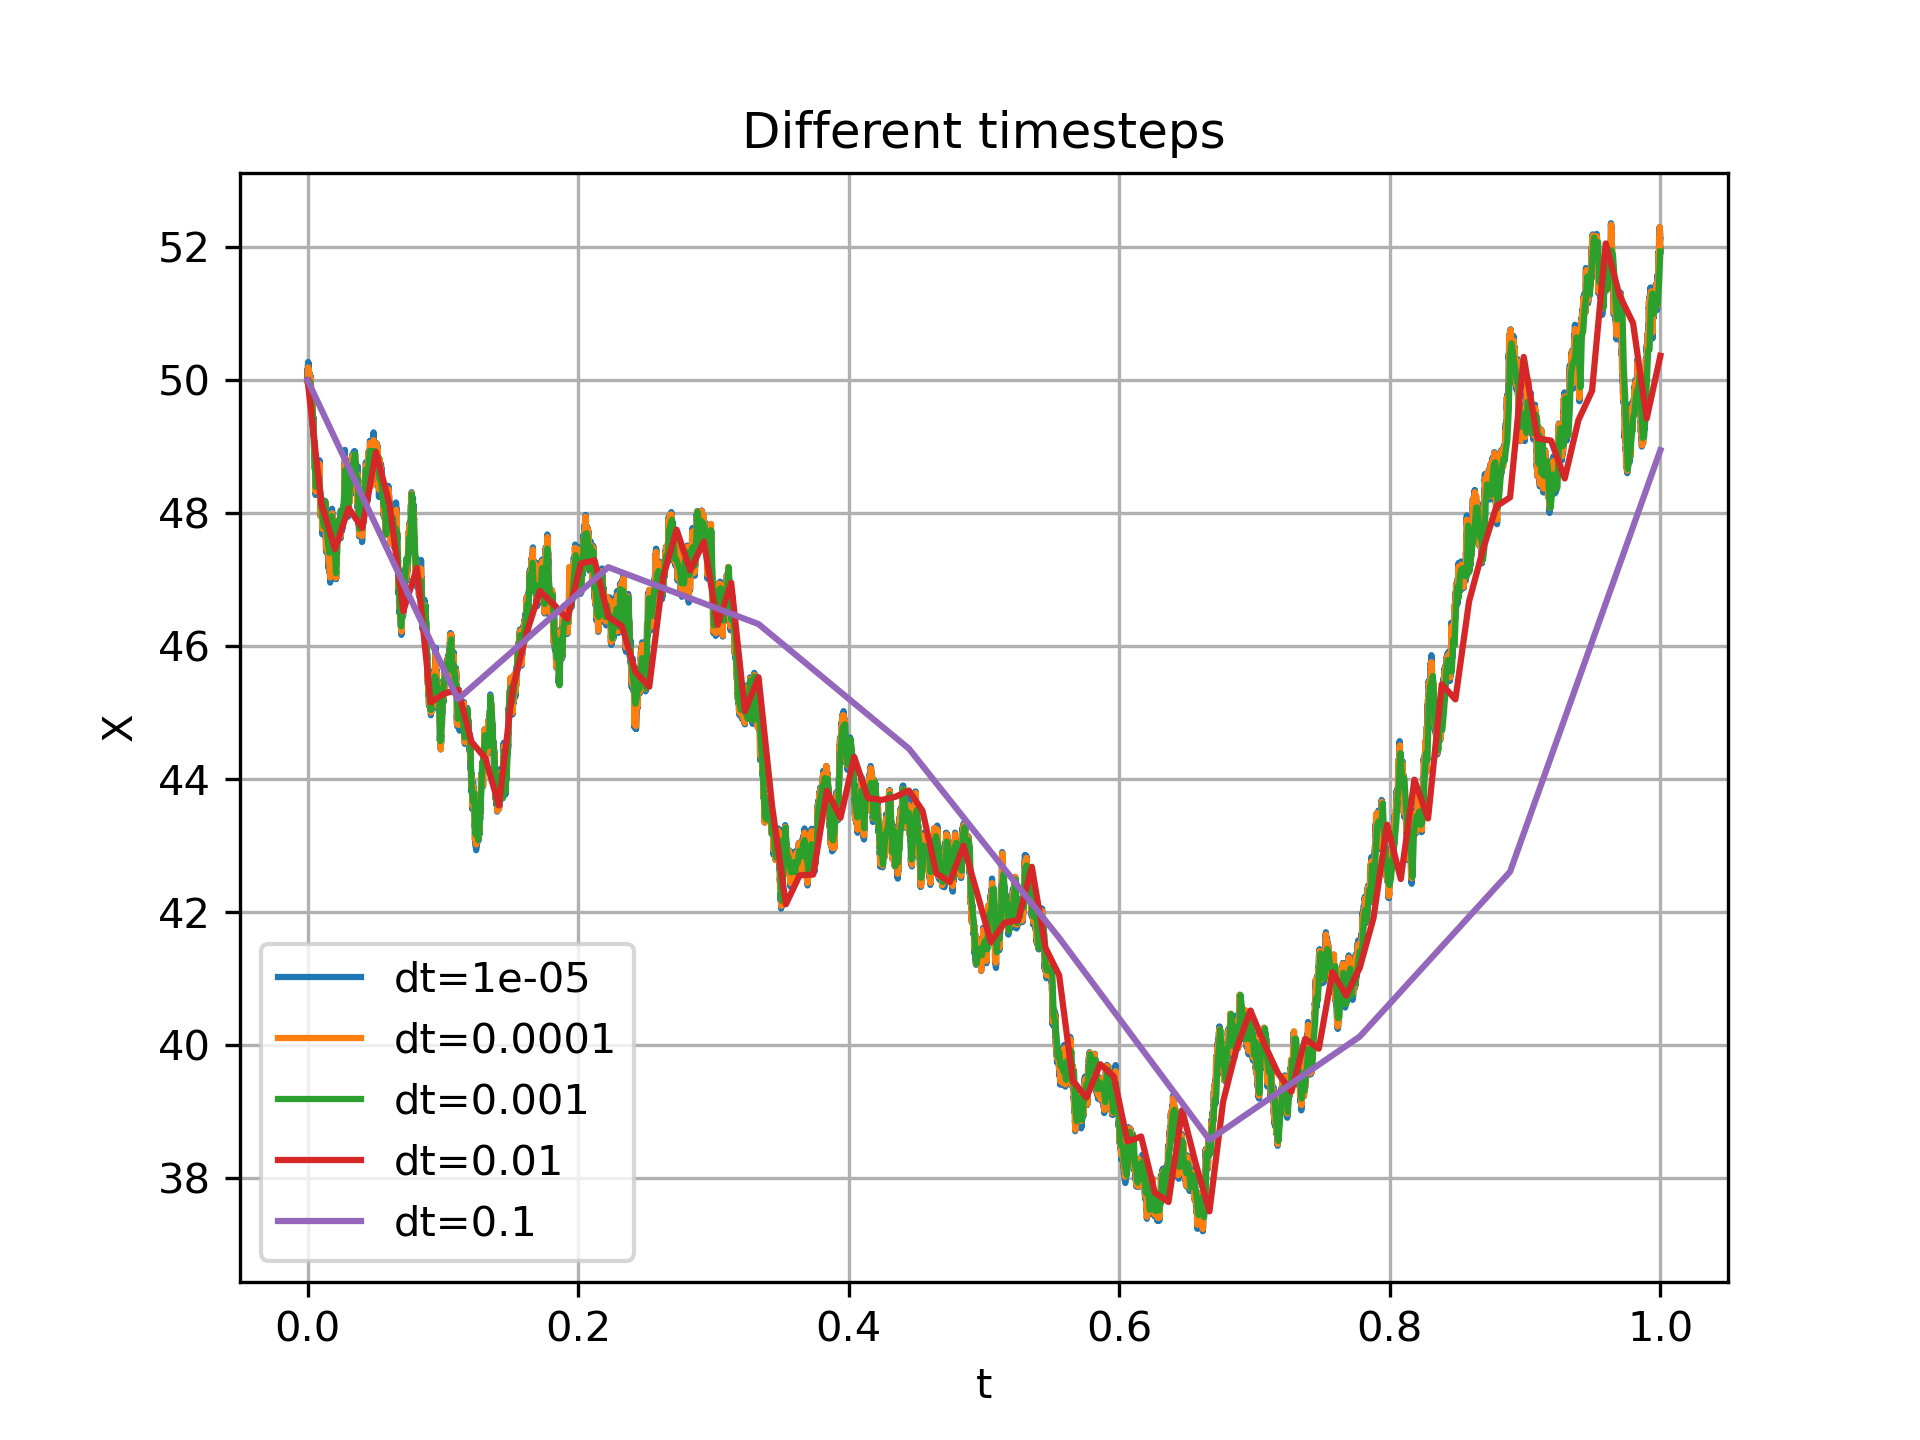
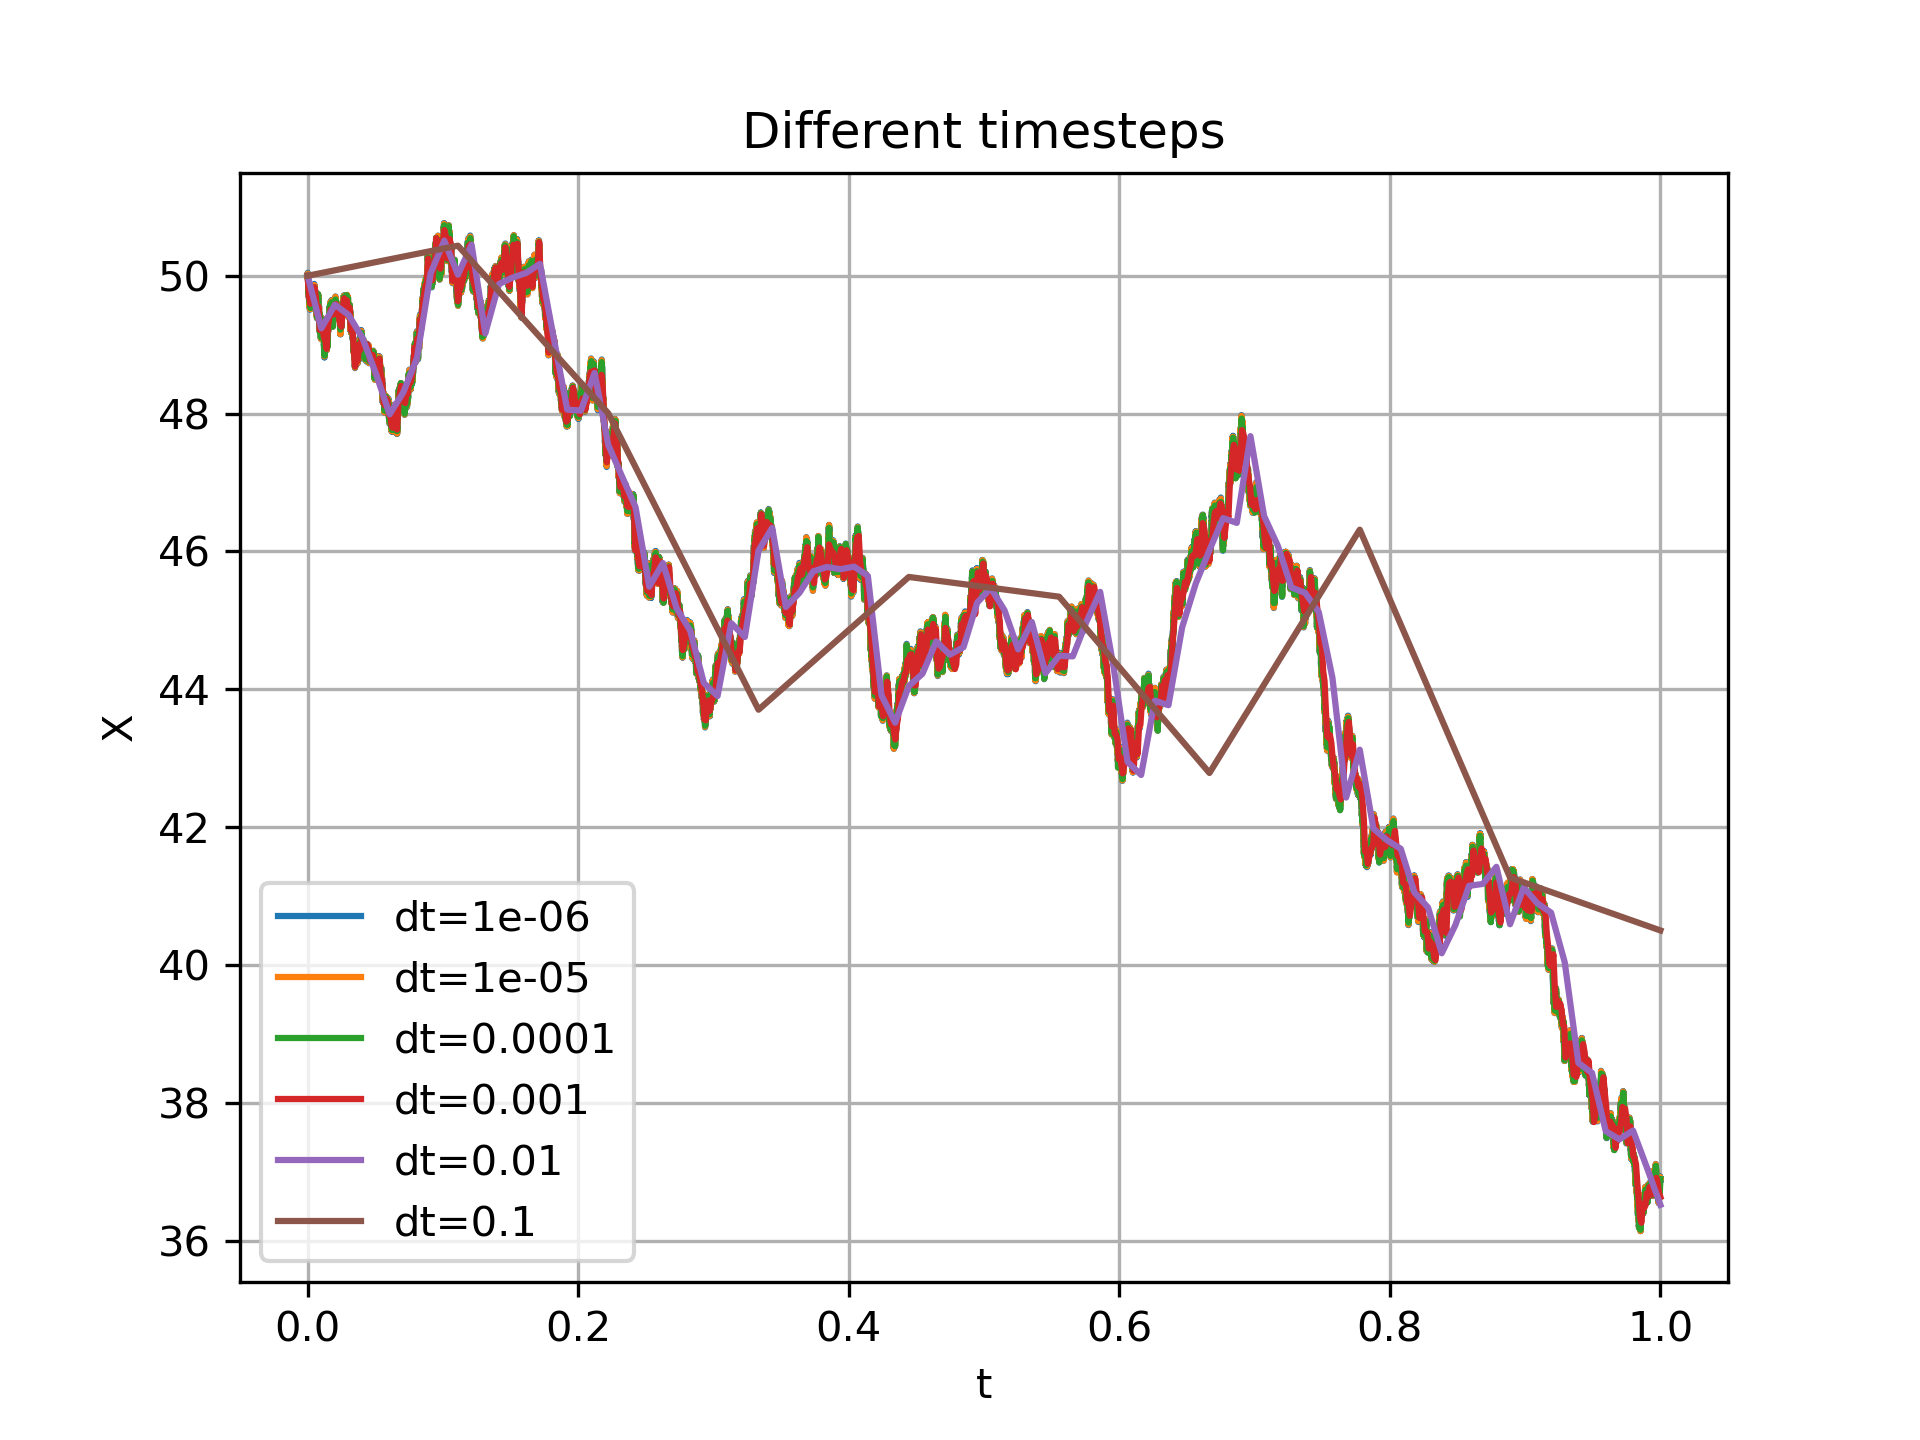
Added Question D

diff --git a/QuestionC.py b/QuestionC.py
@@ -2,18 +2,20 @@ import numpy as np
 import math
 import matplotlib.pyplot as plt
 from Models import Black_Scholes, Vector_Model
+from WienerProcesses import Wiener
 
 def Plot_different_timesteps(n_list, model, X_0, W, t_end=1, Euler=True):
     dt_list = [t_end/n_list[i] for i in range(len(n_list))]
     for size in n_list:
-            W_sample = W[::int(n_list[0]/size),:,0]
-            t = np.linspace(0, t_end, int(size))
-            
-            if Euler==True:
-                x = model.euler_method(X_0[0], W_sample,t)
-            else:
-                x = model.milstein_method(X_0[0], W_sample,t)
-            plt.plot(t,x,label=f"dt={t_end/size}")
+        dt = t_end/size
+        W_sample = W.sample(dt)
+        t = np.linspace(0, t_end, int(size))
+        
+        if Euler==True:
+            x = model.euler_method(X_0, W_sample,t)
+        else:
+            x = model.milstein_method(X_0, W_sample,t)
+        plt.plot(t,x,label=f"dt={t_end/size}")
     plt.xlabel("t")
     plt.ylabel("X")
     plt.title("Different timesteps")
@@ -23,8 +25,6 @@ def Plot_different_timesteps(n_list, model, X_0, W, t_end=1, Euler=True):
     plt.show()
     return
         
-
-
 def Strong_convergence(n_list, n_realisations, model, X_0, W, t_end=1):
     dt_list = [t_end/n_list[i] for i in range(len(n_list))]
 
@@ -34,11 +34,12 @@ def Strong_convergence(n_list, n_realisations, model, X_0, W, t_end=1):
     for j in range(n_realisations):
         print(f"{j+1}/{n_realisations}")
         for size in n_list:
-            W_sample = W[::int(n_list[0]/size),:,j]
+            dt = t_end/size
+            W_sample = W.sample(dt,j)
             t = np.linspace(0, t_end, int(size))
             
-            x_euler = model.euler_method(X_0[0], W_sample,t)
-            x_milstein = model.milstein_method(X_0[0], W_sample,t)
+            x_euler = model.euler_method(X_0, W_sample,t)
+            x_milstein = model.milstein_method(X_0, W_sample,t)
             #plt.plot(t,x_milstein)
 
             if size == n_list[0]:
@@ -61,7 +62,6 @@ def Strong_convergence(n_list, n_realisations, model, X_0, W, t_end=1):
     plt.show()
 
 
-
 if __name__ == "__main__":  
     #Parameters
     mu = 0.01
@@ -74,7 +74,7 @@ if __name__ == "__main__":
     S_0 = 50
     X_0 = [S_0,xi_0,sigma_0]
 
-    model = Black_Scholes(mu, sigma_0) #Vector_Model(mu, alpha, p)
+    model = Vector_Model(mu, alpha, p) #Black_Scholes(mu, sigma_0)
     #Time
     order = 6
     n = [int(10**i) for i in range(order,0,-1)]
@@ -85,10 +85,9 @@ if __name__ == "__main__":
     t_end = 1
     dt = dt_list[0]
 
-    np.random.seed(0)
     n_realisations = 2
     #ensure all methods use the same random numbers to ensure fair comparison
-    W = np.cumsum(np.random.normal(size=(int(n[0]),3,n_realisations),scale=math.sqrt(dt)),axis=0)
+    W = Wiener(int(n[0]), n_realisations, dt,seed=0)
 
     #Plot_different_timesteps(n, model, X_0, W, t_end=t_end, Euler=True)
     Strong_convergence(n, n_realisations, model, X_0, W, t_end=t_end)

diff --git a/QuestionD.py b/QuestionD.py
@@ -1,0 +1,72 @@
+from Models import Black_Scholes, Vector_Model
+from WienerProcesses import Wiener, Time
+import numpy as np
+import math
+import matplotlib.pyplot as plt
+
+def h(x):
+    return x*x
+
+def Weak_convergence(n_list, n_realisations, model, X_0, W, t_end=1):
+    t = Time(t_end, n_list[0])
+    euler_error = []
+    milstein_error = []
+
+    for size in n_list:
+        t_sample = t.sample(t_end/size)
+        x_euler_avg = np.zeros(len(t_sample))
+        x_milstein_avg = np.zeros(len(t_sample))
+
+        for i in range(n_realisations):
+            W_sample = W.sample(t_end/size, i)
+            x_euler = model.euler_method(X_0, W_sample, t_sample)
+            x_euler_avg += x_euler
+            x_milstein = model.milstein_method(X_0, W_sample, t_sample)
+            x_milstein_avg += x_milstein
+        
+        x_euler_avg /= n_realisations
+        x_milstein_avg /= n_realisations
+        if size == n[0]:
+            ground_truth_euler = h(x_euler_avg)
+            ground_truth_milstein = h(x_milstein_avg)
+
+        else:
+            euler_error.append(np.mean(np.abs(h(x_euler_avg)-ground_truth_euler[::int((t_end/size)/(t_end/n_list[0]))])))
+            milstein_error.append(np.mean(np.abs(h(x_milstein_avg)-ground_truth_milstein[::int((t_end/size)/(t_end/n_list[0]))])))
+    
+    plt.loglog(dt_list[1:], euler_error, label="Euler")
+    plt.loglog(dt_list[1:], milstein_error, label="Milstein")
+    plt.grid()
+    plt.xlabel("dt")
+    plt.ylabel("Error")
+    plt.title("Weak Convergence x^2")
+    plt.legend()
+    plt.savefig("./Plots/Weak_convergence.png",dpi=300)
+    plt.show()
+    return
+
+
+if __name__ == "__main__":
+    #Parameters
+    mu = 0.01
+    alpha = 0.5
+    p = 0
+
+    #Initial Conditions
+    sigma_0 = 0.2
+    xi_0 = 0.1
+    S_0 = 50
+    X_0 = [S_0,xi_0,sigma_0]
+    
+    model =  Black_Scholes(mu, sigma_0) #Vector_Model(mu, alpha, p)
+
+    #Time parameters
+    t_end = 1
+    order = 6
+    n_realisations = 10
+    n = [int(10**i) for i in range(order,0,-1)]
+    dt_list = [1/n[i] for i in range(len(n))]
+    
+    W = Wiener(int(n[0]), n_realisations, dt_list[0], seed=0)
+
+    Weak_convergence(n, n_realisations, model, X_0, W, t_end)

diff --git a/WienerProcesses.py b/WienerProcesses.py
@@ -1,0 +1,36 @@
+import numpy as np
+import math
+
+class Wiener:
+    def __init__(self, time_length:int, n_realisations:int, dt:float, vector_dimension:int=3,seed:int=0):
+        self.time_length = time_length
+        self.n_realisations = n_realisations
+        self.dt = dt
+        self.vector_dimension = vector_dimension
+        np.random.seed(seed)
+        self.W = np.cumsum(np.random.normal(size=(time_length,vector_dimension,n_realisations),scale=math.sqrt(dt)),axis=0)
+    
+    def sample(self, dt:float, realisation:int=0):
+        if dt < self.dt:
+            raise ValueError("dt must be greater than the original dt")
+        elif dt == self.dt:
+            return self.W[:,:,realisation]
+        else:
+            return self.W[::int(dt/self.dt),:,realisation]
+
+class Time():
+    def __init__(self, t_end, n):
+        self.t_end = t_end
+        self.n = n
+        self.t = np.linspace(0, t_end, n)
+        self.dt = t_end/n
+
+    def sample(self, dt):
+        if dt < self.dt:
+            raise ValueError("dt must be greater than the original dt")
+        elif dt == self.dt:
+            return self.t
+        else:
+            return self.t[::int(dt/self.dt)]
+    
+    

diff --git a/Models.py b/Models.py
@@ -55,7 +55,10 @@ class Black_Scholes:
         dt = t[1]-t[0]
         self.dt = dt
         x = np.zeros(len(t))
-        x[0] = x_0
+        if type(x_0) == list:
+            x[0] = x_0[0]
+        else:
+            x[0] = x_0
 
         for time in range(len(t)-1):
             x[time+1] = x[time] + self.f(time,x[time])*dt + self.g(time,x[time])*(W[time+1,0]-W[time,0])
@@ -65,7 +68,10 @@ class Black_Scholes:
         dt = t[1]-t[0]
         self.dt = dt
         x = np.zeros(len(t))
-        x[0] = x_0
+        if type(x_0) == list:
+            x[0] = x_0[0]
+        else:
+            x[0] = x_0
 
         for time in range(len(t)-1):
             x[time+1] = x[time] + self.f(time,x[time])*dt + self.g(time,x[time])*(W[time+1,0]-W[time,0]) + 0.5*self.g(time,x[time])*self.g_prime(time,x[time])*((W[time+1,0]-W[time,0])**2 - dt)
